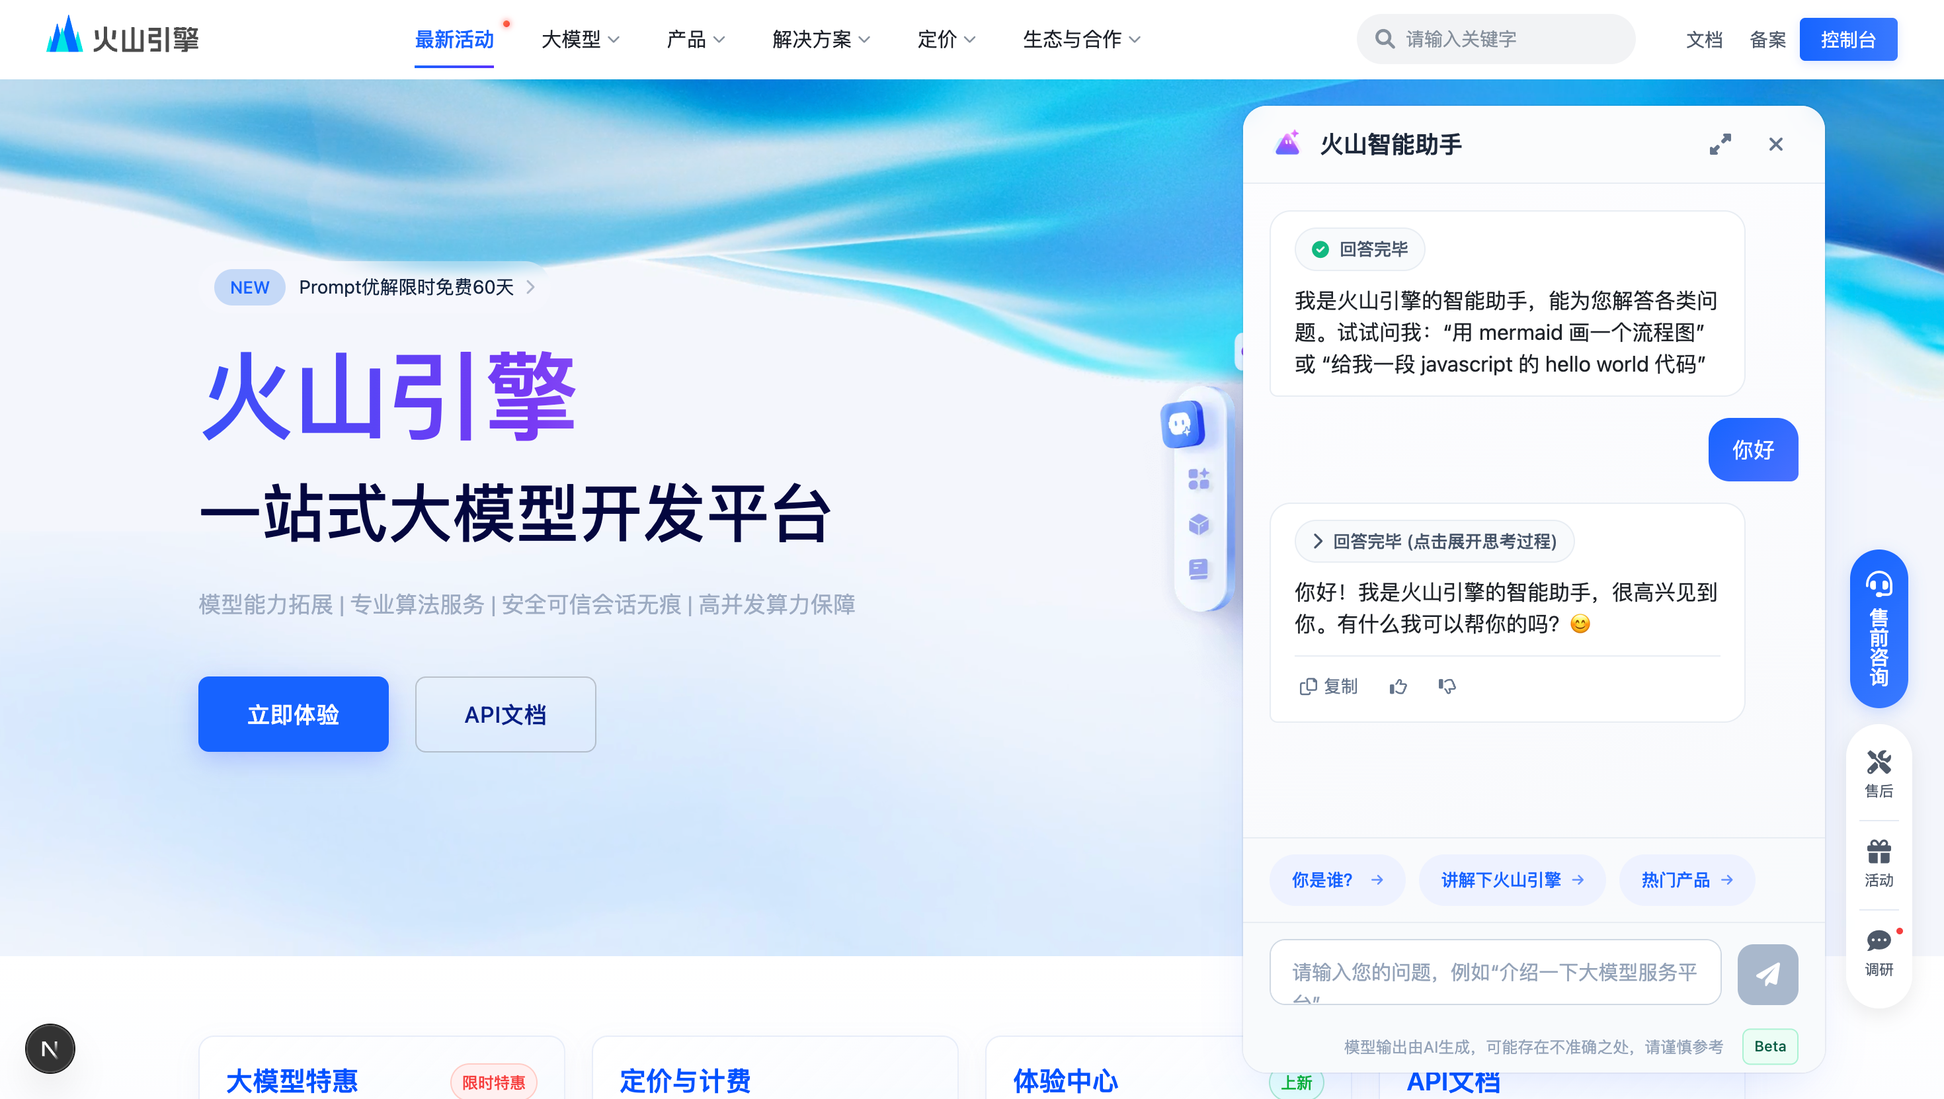
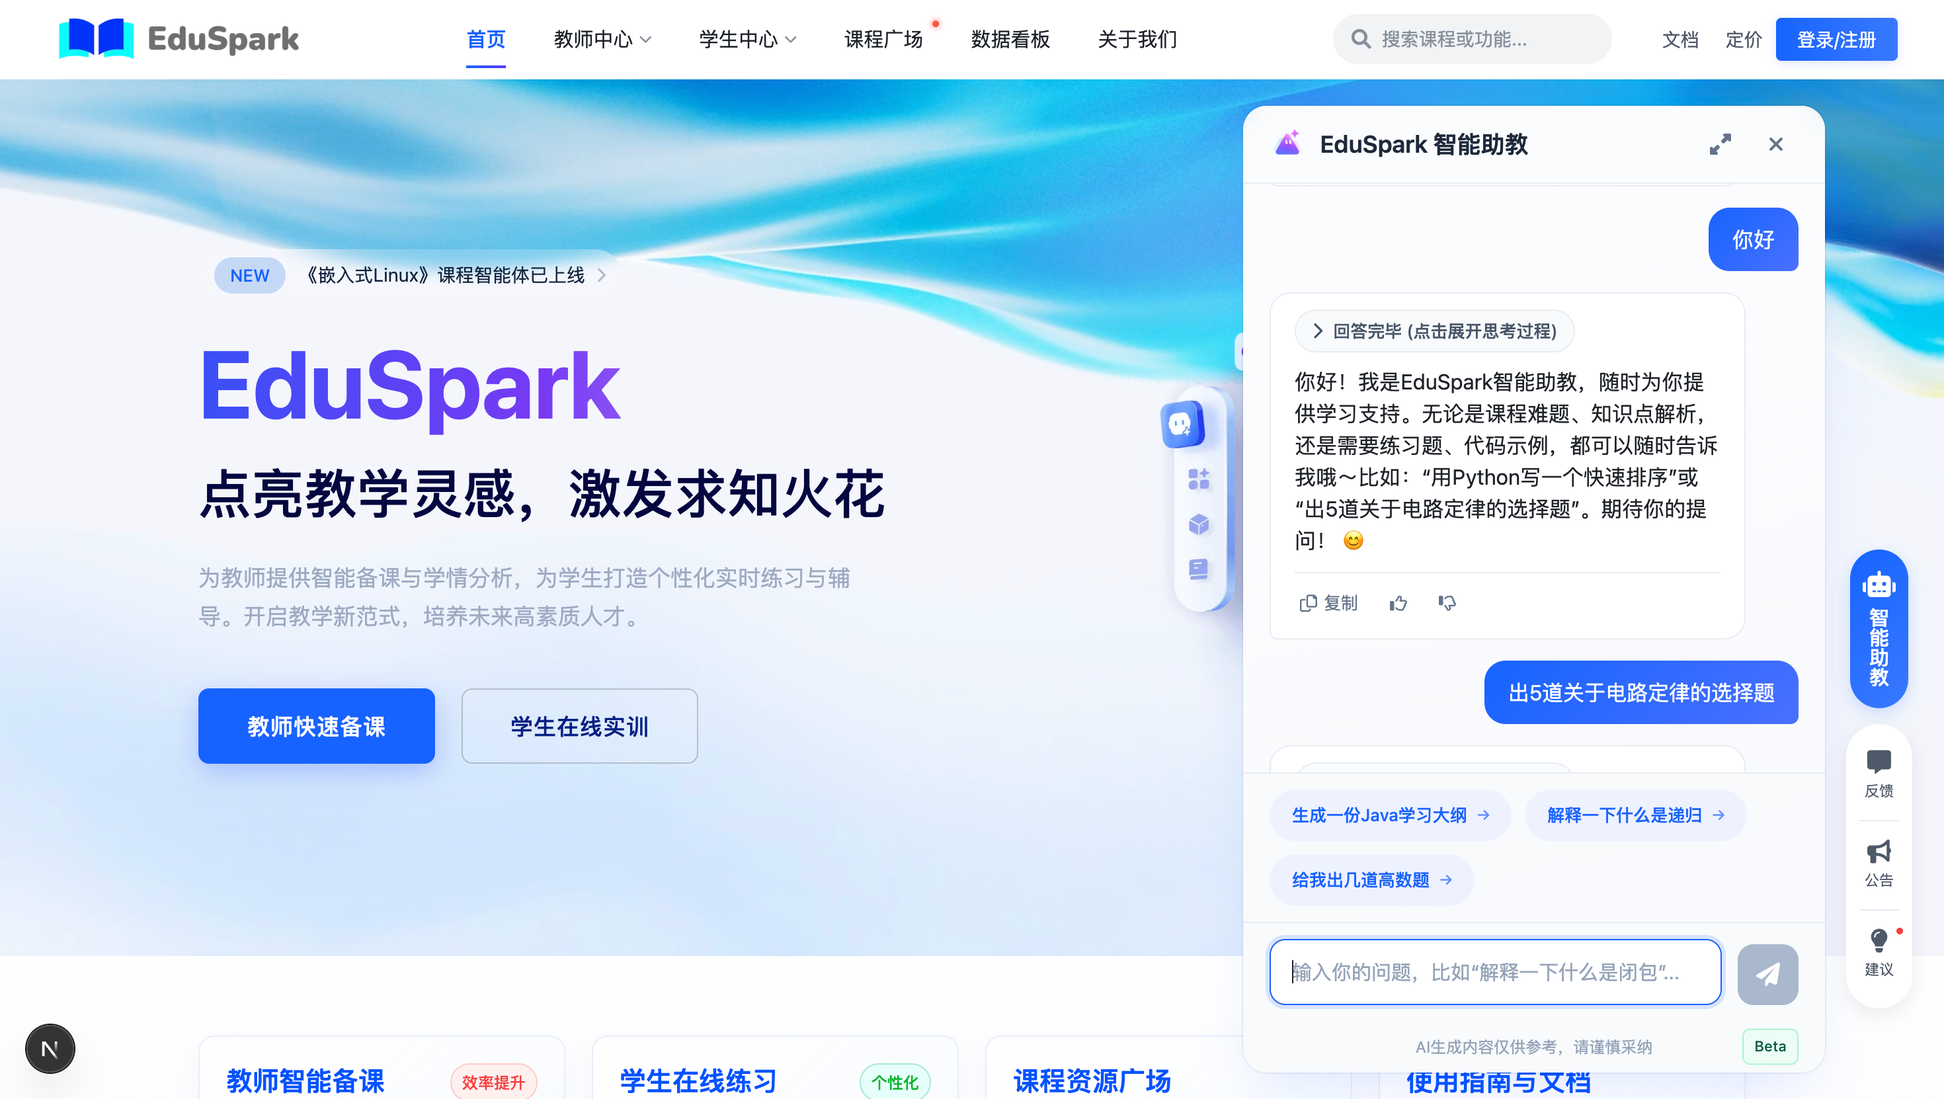
docs: 更新README文件

diff --git a/README.md b/README.md
@@ -1,236 +1,210 @@
+
+
 <p align="center">
-  <img src="docs/icon.svg" alt="volcano-engine-logo" width="200">
+  <img src="docs/EduSpark-icon-font.png" alt="eduspark-logo" width="300" >
 </p>
 
-<h1 align="center">volcano-engine 🌋✨</h1>
+<h1 align="center">EduSpark 🚀✨</h1>
 
 <p align="center">
-  <strong>火山引擎官网高保真复刻，集成 Next.js 15、Framer Motion 和 AI 聊天机器人。</strong>
+  <strong>一款 AI 驱动的教学实训平台，为教师和学生双向赋能，重塑智能教育未来。</strong>
 </p>
 
 <div align="center">
   <img src="https://img.shields.io/badge/Next.js-15-black?logo=next.js&logoColor=white" alt="Next.js">
-  <img src="https://img.shields.io/badge/TypeScript-5-blue?logo=typescript&logoColor=white" alt="TypeScript">
-  <img src="https://img.shields.io/badge/Framer%20Motion-12-blueviolet?logo=framer&logoColor=white" alt="Framer Motion">
-  <img src="https://img.shields.io/badge/Tailwind%20CSS-4-38B2AC?logo=tailwind-css&logoColor=white" alt="Tailwind CSS">
-  <img src="https://img.shields.io/badge/ZhipuAI-API-brightgreen" alt="ZhipuAI">
-  <img src="https://img.shields.io/badge/Vercel-Ready-black?logo=vercel&logoColor=white" alt="Vercel Ready">
+  <img src="https://img.shields.io/badge/Spring_Boot-3-6DB33F?logo=spring&logoColor=white" alt="Spring Boot">
+  <img src="https://img.shields.io/badge/LangChain4j-Java-orange" alt="LangChain4j">
+  <img src="https://img.shields.io/badge/Multi--Model-Support-brightgreen" alt="Multi-Model Support">
+  <img src="https://img.shields.io/badge/Docker-Ready-2496ED?logo=docker&logoColor=white" alt="Docker Ready">
+  <img src="https://img.shields.io/badge/PostgreSQL-16-336791?logo=postgresql&logoColor=white" alt="PostgreSQL">
 </div>
 
 
-嗨，欢迎来到 **volcano-engine**！这是一个基于 **Next.js 15 (App Router)** 和 **TypeScript** 构建的，对[火山引擎大模型官网](https://www.volcengine.com/product/doubao)页面的高保真复刻项目。
+欢迎来到 **EduSpark**！这是一个基于 **Next.js 15 (App Router)** 构建前端，并由强大的 **Spring Boot** 后端驱动的全栈式教学实训智能体软件。
 
-项目不仅在视觉上力求还原官网的精美设计，更通过 `Framer Motion` 带来了流畅的动画效果，并集成了一个功能强大的 **实时聊天机器人** 🤖，与真实的 [ZhipuAI (智谱AI)](https://www.zhipuai.cn/) 模型 API 对接，为你带来完整的交互体验！
+`EduSpark` 旨在响应国家教育数字化战略，深度融合大模型与实训教学。我们为教师提供一键式智能备课与学情分析工具，为学生打造全天候的个性化练习与实时辅导伙伴。我们的目标是解决传统教学中的核心痛点，推动实训教学向智能化、自适应化转型。
 
-![Project Screenshot / GIF](/docs/image.png)
+![Project Screenshot](/docs/image.png)
 
 ---
 
 ## ✨ 核心亮点 (Key Features)
 
-*   **🎨 高保真UI复刻**: 精心还原了火山引擎官网的多个核心展示区域，包括但不限于英雄区、产品特性、定价方案、系统能力、安全保障等，像素级追求细节。
-*   **💃 丝滑的动画体验**: 全站广泛使用 `framer-motion` 库，为页面加载、组件入场、滚动视图和用户交互添加了丰富而流畅的动画效果，提升用户体验。
-*   **🤖 功能完备的AI聊天机器人**:
-    *   **实时流式响应**: 对接智谱AI，实现了打字机效果的流式响应，体验如丝般顺滑。
-    *   **Markdown全支持**: 采用 `react-markdown` 和 `remark-gfm`，完美渲染列表、表格、引用等所有 GFM 语法。
-    *   **代码高亮**: 内置 `react-syntax-highlighter`，对代码块进行美观的语法高亮。
-    *   **图表绘制**: 支持通过 `Mermaid.js` 语法直接在对话中生成流程图、序列图等多种图表。
-    *   **思考过程展示**: 能够解析并展示AI的思考过程，让交互更透明。
-*   **📱 响应式设计**: 无论是桌面、平板还是手机，都提供了良好的浏览体验。
-*   **🛠 现代化的技术栈**: 采用 Next.js 15、TypeScript、Tailwind CSS 等前沿技术，提供了优秀的开发体验和性能。
-*   **📂 清晰的项目结构**: 代码遵循高内聚、低耦合的原则，按功能模块（sections）、布局（layout）、公共组件（common）、小部件（widgets）进行组织，易于理解和扩展。
+*   **👨🏫 教师端：智能教学中枢**
+    *   **一键智能备课**: 上传课程大纲或知识库，AI 自动生成包含知识讲解、实训任务和考核题目的完整教案。
+    *   **自动化考核与分析**: 自动批改学生作业与练习，提供错误定位与修正建议，并生成多维度学情分析报告，洞察教学效果。
+
+*   **👨🎓 学生端：个性化学习伴侣**
+    *   **全时在线辅导**: 7x24 小时的 AI 助教，随时解答课程疑问，提供学习资源推荐。
+    *   **自适应练习与纠错**: 根据学生的知识掌握情况，智能生成练习题，并对错误进行实时分析与指导。
+
+*   **🤖 强大的 AI 内核**
+    *   **多模型支持**: 集成并可灵活调度**通义千问、智谱GLM、DeepSeek**等多种业界领先的大模型。
+    *   **先进的 RAG 架构**: 基于 `PGvector` 和 `LangChain4j` 构建高效、准确的本地知识库检索与生成能力。
+    *   **Agent 与工具调用**: 具备复杂的任务规划与工具调用能力，实现高级的教学互动场景。
+
+*   **📊 管理员驾驶舱**
+    *   **多角色用户管理**: 支持管理员、教师、学生等多种角色的权限管理。
+    *   **教学资源管理**: 统一管理所有课程、课件、题库资源，并支持导出。
+    *   **可视化数据大屏**: 实时展示平台使用统计、教学效率指数、学生学习效果等核心指标。
+
+*   **🛠 现代化的技术栈与架构**
+    *   **前后端分离**: 采用 Next.js 构建动态、响应式的前端，Spring Boot 构建稳定、高性能的后端服务。
+    *   **容器化部署**: 全面拥抱 Docker，提供标准化的部署流程，易于在任何云环境（如阿里云）中扩展。
 
 ---
 
 ## 🛠 技术栈 (Tech Stack)
 
-*   **前端框架**: [Next.js](https://nextjs.org/) 15 (App Router, Turbopack)
-*   **编程语言**: [TypeScript](https://www.typescriptlang.org/)
-*   **样式方案**: [CSS Modules](https://github.com/css-modules/css-modules) + [Tailwind CSS](https://tailwindcss.com/)
-*   **动画库**: [Framer Motion](https://www.framer.com/motion/)
-*   **AI模型服务**: [ZhipuAI (智谱AI)](https://www.zhipuai.cn/)
-*   **Markdown渲染**: [React-Markdown](https://github.com/remarkjs/react-markdown) + [Remark-GFM](https://github.com/remarkjs/remark-gfm)
-*   **代码高亮**: [React-Syntax-Highlighter](https://github.com/react-syntax-highlighter/react-syntax-highlighter)
-*   **图表库**: [Mermaid.js](https://mermaid-js.github.io/mermaid/#/)
+*   **前端 (Frontend)**: [Next.js](https://nextjs.org/) 15 (App Router), [TypeScript](https://www.typescriptlang.org/), [React](https://react.dev/), [Framer Motion](https://www.framer.com/motion/), [CSS Modules](https://github.com/css-modules/css-modules)
+*   **后端 (Backend)**: [Spring Boot](https://spring.io/projects/spring-boot), [Spring AI](https://spring.io/projects/spring-ai), [LangChain4j](https://github.com/langchain4j/langchain4j)
+*   **大模型 (LLMs)**: [阿里云百炼平台](https://www.aliyun.com/product/bailian), [通义千问 (Qwen)](https://github.com/QwenLM/Qwen), [智谱GLM (ChatGLM)](https://github.com/THUDM/ChatGLM-6B), [DeepSeek](https://www.deepseek.com/)
+*   **数据库 (Database)**: [PostgreSQL](https://www.postgresql.org/) + [PGvector](https://github.com/pgvector/pgvector)
+*   **部署 (Deployment)**: [Docker](https://www.docker.com/), [Nginx](https://www.nginx.com/), [阿里云 (ECS, RDS)](https://www.aliyun.com/), CDN
 
 ---
 
 ## 🚀 快速开始 (Getting Started)
 
-想要在本地运行这个酷炫的项目吗？跟我来！
+想要在本地运行这个强大的教育平台吗？请遵循以下步骤！
 
 ### 1. 环境准备
 
-确保你的电脑上已经安装了 [Node.js](https://nodejs.org/) (v18.0 或更高版本) 和 [pnpm](https://pnpm.io/)。
+确保你的电脑上已经安装了 [Node.js](https://nodejs.org/) (v18.0 或更高版本), [pnpm](https://pnpm.io/), [Java](https://www.java.com/) (JDK 17 或更高版本), 和 [Docker](https://www.docker.com/)。
 
 ### 2. 克隆项目
 
 ```bash
-git clone https://github.com/your-username/volcano-engine.git
-cd volcano-engine
+git clone https://github.com/your-username/eduspark.git
+cd eduspark
 ```
 
-### 3. 安装依赖
+### 3. 启动后端服务
+
+（详细步骤请参考后端项目的 `README`）
+通常，您需要配置后端的 `application.yml` 文件，填入您的数据库连接信息和AI模型API Keys，然后运行 Spring Boot 应用。
+
+### 4. 安装前端依赖
 
 ```bash
 pnpm install
 ```
-*(推荐使用 `pnpm`，当然 `npm` 或 `yarn` 也可以)*
 
-### 4. 配置环境变量 🔑
+### 5. 配置前端环境变量 🔑
 
-这是最关键的一步！为了让聊天机器人能正常工作，你需要一个智谱AI的API Key。
+为了让前端能够与后端和AI服务正常通信，您需要配置环境变量。
 
-首先，将项目根目录下的 `.env.local.example` (如果我提供了的话，如果没有请手动创建) 复制一份并重命名为 `.env.local`：
+首先，将项目根目录下的 `.env.local.example` 复制一份并重命名为 `.env.local`：
 
 ```bash
-# 如果有 .env.local.example 文件
 cp .env.local.example .env.local
-
-# 如果没有，则手动创建 .env.local 文件
-touch .env.local
 ```
 
-然后，在 `.env.local` 文件中填入你的API Key：
-
+然后，在 `.env.local` 文件中填入所需信息：
 ```
+# 后端API服务的地址
+NEXT_PUBLIC_API_BASE_URL=http://localhost:8080/api
+
+# 用于前端独立功能（如智能助教悬浮窗）的 ZhipuAI Key
 ZHIPUAI_API_KEY=xxxxxxxxxxxxxxxxxxxxxxxxxxxxxxxx
 ```
-> 💡 **提示**: 你可以在 [智谱AI开放平台](https://open.bigmodel.cn/) 免费注册并获取你的API Key。
+> 💡 **提示**: 我们推荐将复杂的AI逻辑放在后端处理，但某些轻量级的前端交互（如本项目中的智能助教）可直连模型API以获得更快的流式响应。
 
-### 5. 启动项目！
-
-一切准备就绪，运行下面的命令来启动开发服务器：
+### 6. 启动前端开发服务器！
 
 ```bash
 pnpm dev
 ```
 
-现在，打开你的浏览器并访问 [http://localhost:3000](http://localhost:3000)，你就能看到运行中的项目啦！🎉
+现在，打开你的浏览器并访问 [http://localhost:3000](http://localhost:3000)，你就能看到运行中的 `EduSpark` 平台了！🎉
 
-
-
+---
 
 ## 🐳 Docker 部署 (Docker Deployment)
 
-对于生产环境或需要更高可移植性的场景，我们强烈推荐使用 Docker 进行部署。本项目已包含一个经过优化的、采用多阶段构建的 `Dockerfile`，可以生成一个轻量且安全的生产镜像。
+对于生产环境，我们强烈推荐使用 Docker 进行部署。项目已包含为前端优化的多阶段构建 `Dockerfile`。
 
-### 1. 环境准备
+### 1. 构建前端 Docker 镜像 🏗
 
-*   **本地**: 确保你的电脑上已经安装了 [Docker Desktop](https://www.docker.com/products/docker-desktop/)。
-*   **服务器**: 你的目标服务器（如阿里云 ECS）需要安装 [Docker Engine](https://docs.docker.com/engine/install/)。
-
-### 2. Dockerfile 解析
-
-项目根目录下的 `Dockerfile` 文件定义了镜像的构建过程：
-*   **多阶段构建 (Multi-stage builds)**:
-    1.  **Builder 阶段**: 在一个完整的 Node.js 环境中安装所有依赖并执行 `pnpm run build`。
-    2.  **Runner 阶段**: 在一个干净、轻量的 `node:20-alpine` 镜像中，只从上一阶段复制出运行所必需的构建产物 (`.next`) 和生产依赖 (`node_modules`)。
-*   **安全与高效**: 这种方式可以确保最终镜像体积最小，并且不包含任何开发工具或源代码，更加安全。
-
-### 3. 构建 Docker 镜像 🏗
-
-在你的本地机器上（例如 macOS），打开终端并进入项目根目录，运行以下命令来构建镜像。
-
-> **跨平台构建**:
-> 此命令使用 `--platform linux/amd64` 参数，确保即使你在 M1/M2/M3 Mac (ARM64) 上构建，生成的镜像也能在标准的 x86-64 Linux 服务器上运行。
+在项目根目录运行以下命令。此命令已优化，确保在任何CPU架构（如 M1/M2 Mac）上都能构建出可在标准 x86-64 Linux 服务器上运行的镜像。
 
 ```bash
 docker build \
   --platform linux/amd64 \
   --build-arg ZHIPUAI_API_KEY_ARG="你的智谱AI_API_KEY" \
-  -t your-dockerhub-username/volcano-engine:1.0.0 \
+  -t your-dockerhub-username/eduspark-frontend:1.0.0 \
   .
 ```
 
-*   `--build-arg ZHIPUAI_API_KEY_ARG`: **(构建时使用)** 这是在构建过程中安全传递 API Key 的方式，它**不会**被存储在最终的镜像层中。
-*   `-t your-dockerhub-username/volcano-engine:1.0.0`: 为你的镜像打上一个标签，格式通常为 `[仓库用户名]/[镜像名]:[版本号]`。
-*   `.`: 表示 `Dockerfile` 在当前目录。
+*   `--build-arg`: 安全地在**构建时**传递密钥。
+*   `-t`: 为你的镜像打上标签。
 
-### 4. 推送镜像到镜像仓库 ☁
-
-为了让你的服务器可以访问到这个镜像，你需要将它推送到一个镜像仓库，例如 [Docker Hub](https://hub.docker.com/)。
+### 2. 推送镜像到仓库 ☁
 
 ```bash
-# 登录你的 Docker Hub 账户
-docker login
-
-# 推送你刚刚构建的镜像
-docker push your-dockerhub-username/volcano-engine:1.0.0
+docker push your-dockerhub-username/eduspark-frontend:1.0.0
 ```
 
-### 5. 在服务器上部署并运行 🚀
+### 3. 在服务器上部署并运行 🚀
 
-现在，SSH 连接到你的 Linux 服务器，并执行以下命令来拉取并运行你的应用容器。
+在您的服务器上（假设后端服务已在运行），执行以下命令来启动前端容器。
 
 ```bash
 docker run -d \
-  --name volcano-engine-app \
+  --name eduspark-frontend-app \
   -p 3000:3000 \
   -e ZHIPUAI_API_KEY="你的智谱AI_API_KEY" \
   --restart always \
-  your-dockerhub-username/volcano-engine:1.0.0
+  your-dockerhub-username/eduspark-frontend:1.0.0
 ```
+*   `-d`: 后台运行。
+*   `-p`: 端口映射。
+*   `-e`: 在**运行时**安全地注入环境变量。
+*   `--restart always`: 保证服务高可用。
 
-*   `-d`: 在后台运行容器。
-*   `--name volcano-engine-app`: 为容器指定一个友好的名称。
-*   `-p 3000:3000`: 将服务器的 3000 端口映射到容器内部的 3000 端口。
-*   `-e ZHIPUAI_API_KEY`: **(运行时使用)** 这是在容器运行时注入环境变量的安全方式。你的 Next.js 应用将通过 `process.env` 读取此变量。
-*   `--restart always`: 确保在服务器重启或容器意外崩溃时，Docker 会自动重启它。
+部署完成后，通过 Nginx 等反向代理配置域名，即可对外提供服务。
 
-部署完成后，你就可以通过 `http://你的服务器IP:3000` 访问你的应用了！
-
-> #### 💡 提示: `--build-arg` vs `-e`
-> *   `--build-arg` (构建参数) 用于在 `docker build` 期间向 `Dockerfile` 传递变量，它**只在构建过程中存在**。
-> *   `-e` (环境变量) 用于在 `docker run` 期间向正在运行的**容器**传递变量，它在容器的整个生命周期中都存在。
->
-> 我们同时使用这两者，是因为 ZhipuAI 的 SDK 在**构建时**和**运行时**都需要 API Key。这种分离确保了构建过程能成功，同时运行时也能安全地获取到密钥，并且密钥本身不会被硬编码进镜像里。
-
-### 生产环境建议
-
-在真实的生产环境中，建议使用 Nginx 或 Caddy 等 Web 服务器作为反向代理，将 80/443 端口的流量转发到 Docker 容器的 3000 端口，并配置域名和 SSL/TLS 证书以启用 HTTPS。
+---
 
 ## 📂 项目结构解析
 
 本项目的代码结构清晰，主要目录和文件功能如下：
 
 ```
-volcano-engine/
+EduSpark/
 ├── public/               # 存放图片、视频等静态资源
 ├── src/
 │   ├── app/              # Next.js App Router 核心目录
-│   │   ├── api/          # 后端API路由 (如: /api/chat)
+│   │   ├── api/          # 前端轻量级API (如: /api/chat)
 │   │   ├── layout.tsx    # 全局根布局
 │   │   └── page.tsx      # 网站主页
 │   ├── components/       # ✨ 所有React组件的家
-│   │   ├── common/       # 通用基础组件 (如: Button)
+│   │   ├── common/       # 通用基础组件 (Button)
 │   │   ├── layout/       # 布局组件 (Header, Footer, FloatingSidebar)
-│   │   ├── sections/     # 页面中各个大的内容区块 (如: HeroSection, PricingSection)
-│   │   └── widgets/      # 独立的小功能组件 (如: ChatbotWidget)
+│   │   ├── sections/     # 页面中各个大的内容区块
+│   │   └── widgets/      # 独立的小功能组件 (CourseAssistantWidget)
 │   └── lib/              # 存放公共函数、常量等
 ├── .env.local            # 本地环境变量 (重要且不应提交到Git)
+├── Dockerfile            # 前端 Docker 构建文件
 ├── next.config.ts        # Next.js 配置文件
-├── package.json          # 项目依赖与脚本
-└── tsconfig.json         # TypeScript 配置文件
+└── package.json          # 项目依赖与脚本
 ```
 
 ---
 
 ## 💡 未来可期 (Future Improvements)
 
-虽然项目已经很完整，但总有可以变得更好的地方！
-
-*   [ ] **功能扩展**: 完善更多官网页面，如“文档中心”、“解决方案”等。
-*   [ ] **用户认证**: 引入 NextAuth.js 等方案，实现用户登录注册，保存聊天记录。
-*   [ ] **组件库优化**: 进一步抽象和优化通用组件，提高复用性。
-*   [ ] **单元与集成测试**: 为关键组件和API添加测试用例，保证项目稳定性。
-*   [ ] **状态管理**: 对于更复杂的全局状态，可以引入 Zustand 或 Redux Toolkit。
+*   [ ] **支持更多学科**: 拓展平台对文、理、工、商、艺等更多学科领域的支持。
+*   [ ] **游戏化学习**: 引入积分、徽章等游戏化元素，提升学生学习动机。
+*   [ ] **移动端优化**: 开发原生或PWA应用，提供更佳的移动学习体验。
+*   [ ] **协同教研**: 增加教师间的课程分享、集体备课等协同功能。
+*   [ ] **开放平台**: 提供API，允许第三方开发者在 EduSpark 基础上构建应用。
 
 ---
 
 ## 🤝 贡献 (Contributing)
 
-欢迎任何形式的贡献！如果你有任何好的想法或者发现了Bug，请随时提交 Pull Request 或创建 Issue。
+我们热烈欢迎任何形式的贡献！如果您有任何好的想法或者发现了Bug，请随时提交 Pull Request 或创建 Issue。
 
 1.  Fork 本仓库
 2.  创建你的新分支 (`git checkout -b feature/AmazingFeature`)
@@ -248,9 +222,9 @@ volcano-engine/
 
 ## 🙏 致谢 (Acknowledgements)
 
-*   感谢 [火山引擎](https://www.volcengine.com/) 团队设计出如此精美的官网，为本项目提供了灵感源泉。
-*   感谢 [Next.js](https://nextjs.org/) 和所有开源库的开发者，是你们让这一切成为可能。
+*   感谢所有为本项目提供灵感的开源项目和教育工作者。
+*   特别感谢 [Next.js](https://nextjs.org/), [Spring](https://spring.io/), [LangChain4j](https://github.com/langchain4j/langchain4j) 以及各大模型开源社区的卓越贡献。
 
 ---
 
-希望你喜欢这个项目！如果觉得不错，别忘了给个 Star ⭐ 哦！
+如果 `EduSpark` 对您有所启发，请不要吝啬您的 Star ⭐！
